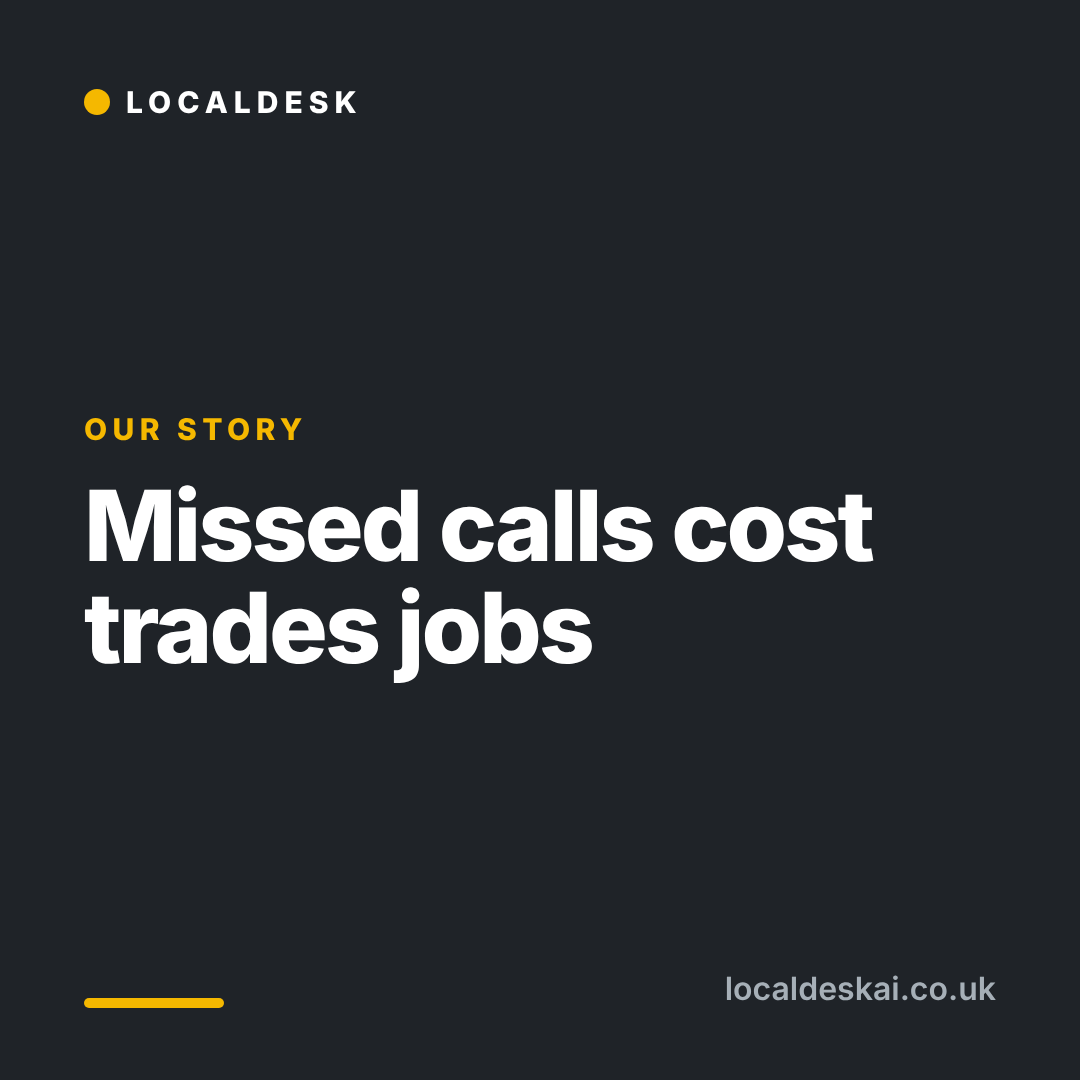
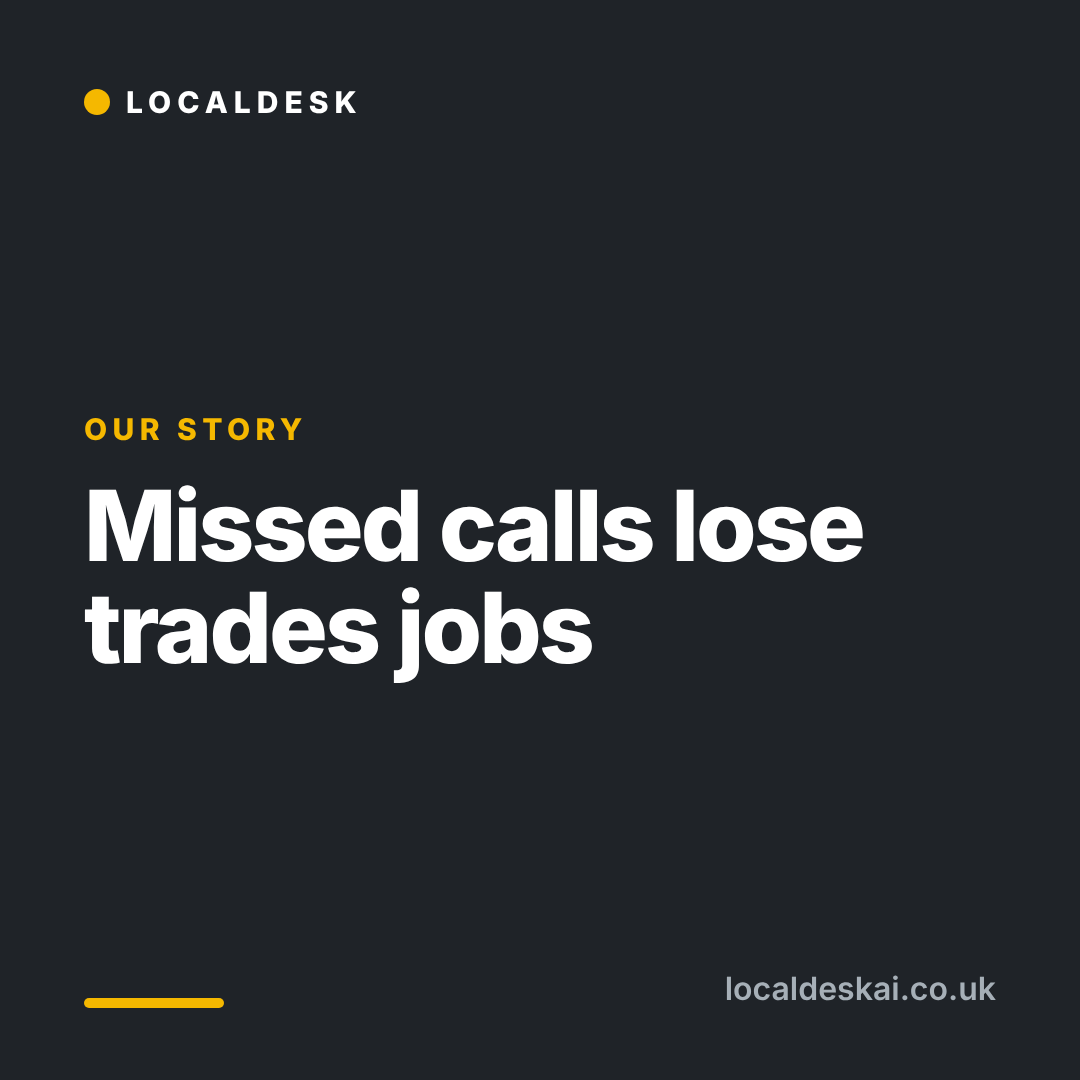
No prices or costs in any social post (owner rule): all 30 days and the first pack reworded, HQ refuses to approve a post that mentions a cost, unapproved drafts follow the cleaned wording, tiles regenerated
Claude-Session: https://claude.ai/code/session_017pEuQxjLj9JBWjxaEQGar8

Changed region(s): [[0.6111, 0.4583, 0.825, 0.5194]]

diff --git a/workers/hq/posts-seed-30.js b/workers/hq/posts-seed-30.js
@@ -50,7 +50,7 @@ export const SEED_MORE = [
   "day": 4,
   "dow": "Thu",
   "title": "She is an AI, and says so",
-  "text": "Mia is an AI, and she says so.\n\nShe takes details and passes them on. She doesn't quote prices, book your diary or promise times. You call back and win the work.\n\nWe'd rather be upfront than have a customer feel tricked.\nhttps://www.localdeskai.co.uk/receptionist/?utm_source=facebook",
+  "text": "Mia is an AI, and she says so.\n\nShe takes details and passes them on. She doesn't give quotes, book your diary or promise times. You call back and win the work.\n\nWe'd rather be upfront than have a customer feel tricked.\nhttps://www.localdeskai.co.uk/receptionist/?utm_source=facebook",
   "picture": "Text tile.",
   "note": "Channels: Facebook, Instagram, LinkedIn. Links: swap utm_source for each channel (facebook, instagram, linkedin, gbp). On Instagram use \"link in bio\". Video idea: 15 seconds. Screen recording of the Receptionist page sample call. On-screen text: 'She tells callers she's an AI.' / 'She takes details.' / 'You call back.' End card: localdeskai.co.uk. Image: content/social/tiles/day-04.png",
   "founding": false,
@@ -65,9 +65,9 @@ export const SEED_MORE = [
   "day": 5,
   "dow": "Fri",
   "title": "Founding places",
-  "text": "We're opening a small number of founding places for Mia, our AI receptionist. Founding clients get free setup (normally £497) and a 7-day free trial, while places last.\n\nMessage us or see the details: https://www.localdeskai.co.uk/receptionist/?utm_source=facebook",
+  "text": "We're opening a small number of founding places for Mia, our AI receptionist. Founding clients get a hands-on start and a 7-day free trial, while places last.\n\nMessage us to find out more: https://www.localdeskai.co.uk/receptionist/?utm_source=facebook",
   "picture": "Text tile. Do NOT use a countdown or a number of places left in the image.",
-  "note": "Channels: Facebook, Instagram, LinkedIn. Links: swap utm_source for each channel (facebook, instagram, linkedin, gbp). On Instagram use \"link in bio\". Google Business Profile version: Founding places for Mia, our AI receptionist: free setup (normally £497) and a 7-day free trial, while places last. Image: content/social/tiles/day-05.png",
+  "note": "Channels: Facebook, Instagram, LinkedIn. Links: swap utm_source for each channel (facebook, instagram, linkedin, gbp). On Instagram use \"link in bio\". Google Business Profile version: Founding places for Mia, our AI receptionist: a hands-on start and a 7-day free trial, while places last. Message us to find out more. Image: content/social/tiles/day-05.png",
   "founding": true,
   "demo": false,
   "platform": "all",
@@ -125,7 +125,7 @@ export const SEED_MORE = [
   "day": 9,
   "dow": "Tue",
   "title": "Receipts in your pocket",
-  "text": "Receipts in your pocket. Photograph a receipt on your phone and Books files it into your own accounting software. We work with QuickBooks, and we're adding FreeAgent and Xero.\n\nBooks by Localdesk: £150 a month plus a £395 setup.\nhttps://www.localdeskai.co.uk/books/?utm_source=facebook",
+  "text": "Receipts in your pocket. Photograph a receipt on your phone and Books files it into your own accounting software. We work with QuickBooks, and we're adding FreeAgent and Xero.\n\nBooks by Localdesk.\nhttps://www.localdeskai.co.uk/books/?utm_source=facebook",
   "picture": "Screenshot from the Books page.",
   "note": "Channels: Facebook, Instagram, LinkedIn. Links: swap utm_source for each channel (facebook, instagram, linkedin, gbp). On Instagram use \"link in bio\". Image: content/social/tiles/day-09.png",
   "founding": false,
@@ -154,11 +154,11 @@ export const SEED_MORE = [
   "id": "m11",
   "day": 11,
   "dow": "Thu",
-  "title": "What it costs",
-  "text": "What does Mia cost? £397 a month, with 300 minutes of calls included. 7-day free trial first. Setup is normally £497 and free for founding clients while places last.\n\nThere's a 3-month minimum term after the free trial, and the full terms are on our website.\nhttps://www.localdeskai.co.uk/receptionist/?utm_source=facebook",
-  "picture": "The pricing card from the Receptionist page (screenshot).",
-  "note": "Channels: Facebook, Instagram, LinkedIn. Links: swap utm_source for each channel (facebook, instagram, linkedin, gbp). On Instagram use \"link in bio\". Google Business Profile version: Mia: £397 a month, 300 minutes included, 7-day free trial. Setup normally £497, free for founding clients while places last. 3-month minimum term after the trial. Image: content/social/tiles/day-11.png",
-  "founding": true,
+  "title": "Set up around your business",
+  "text": "Mia isn't one-size-fits-all. We set her up around your business: the jobs you do, the areas you cover, and what you'd want asked of every caller.\n\nTell us about your trade and we'll show you how she'd sound.\nhttps://www.localdeskai.co.uk/receptionist/?utm_source=facebook",
+  "picture": "Text tile.",
+  "note": "Channels: Facebook, Instagram, LinkedIn. Links: swap utm_source for each channel (facebook, instagram, linkedin, gbp). On Instagram use \"link in bio\". Google Business Profile version: Mia is set up around your business: the jobs you do, the areas you cover, and what you'd want asked of every caller. Message us to hear how she'd sound. Image: content/social/tiles/day-11.png",
+  "founding": false,
   "demo": false,
   "platform": "all",
   "planned": "2026-11-12",
@@ -260,9 +260,9 @@ export const SEED_MORE = [
   "day": 18,
   "dow": "Thu",
   "title": "Five questions to ask first",
-  "text": "Five questions to ask any answering service before you sign:\n1. Does it say it's an AI or a person?\n2. Do I keep my own number?\n3. What happens when I go over my minutes?\n4. Can I read what was said on a call?\n5. What's the minimum term?\n\nWe're happy to answer all five for Mia.\nhttps://www.localdeskai.co.uk/receptionist/?utm_source=facebook",
+  "text": "Five questions to ask any answering service before you sign:\n1. Does it say it's an AI or a person?\n2. Do I keep my own number?\n3. Is it set up around my business?\n4. Can I read what was said on a call?\n5. Can I try it first?\n\nWe're happy to answer all five for Mia.\nhttps://www.localdeskai.co.uk/receptionist/?utm_source=facebook",
   "picture": "Numbered list tile.",
-  "note": "Channels: Facebook, Instagram, LinkedIn. Links: swap utm_source for each channel (facebook, instagram, linkedin, gbp). On Instagram use \"link in bio\". Google Business Profile version: Five questions to ask any answering service before you sign: is it an AI or a person, do you keep your number, what happens over your minutes, can you read the call, what's the minimum term? Image: content/social/tiles/day-18.png",
+  "note": "Channels: Facebook, Instagram, LinkedIn. Links: swap utm_source for each channel (facebook, instagram, linkedin, gbp). On Instagram use \"link in bio\". Google Business Profile version: Five questions to ask any answering service before you sign: is it an AI or a person, do you keep your number, is it set up around your business, can you read the call, can you try it first? Image: content/social/tiles/day-18.png",
   "founding": false,
   "demo": false,
   "platform": "all",
@@ -275,7 +275,7 @@ export const SEED_MORE = [
   "day": 19,
   "dow": "Fri",
   "title": "Founding places still open",
-  "text": "Founding places for Mia are still open: free setup (normally £497) and a 7-day free trial, while places last.\nhttps://www.localdeskai.co.uk/receptionist/?utm_source=facebook",
+  "text": "Founding places for Mia are still open: a hands-on start and a 7-day free trial, while places last.\nhttps://www.localdeskai.co.uk/receptionist/?utm_source=facebook",
   "picture": "Text tile. Post only while founding places remain: HQ will not let you approve this once all five are taken.",
   "note": "Channels: Facebook, Instagram, LinkedIn. Links: swap utm_source for each channel (facebook, instagram, linkedin, gbp). On Instagram use \"link in bio\". Image: content/social/tiles/day-19.png",
   "founding": true,
@@ -335,7 +335,7 @@ export const SEED_MORE = [
   "day": 23,
   "dow": "Tue",
   "title": "Sole traders and paperwork",
-  "text": "Sole trader? Books keeps receipts and invoices in your own accounting software, so the paperwork doesn't pile up. £150 a month plus £395 setup.\nhttps://www.localdeskai.co.uk/books/?utm_source=facebook",
+  "text": "Sole trader? Books keeps receipts and invoices in your own accounting software, so the paperwork doesn't pile up.\nhttps://www.localdeskai.co.uk/books/?utm_source=facebook",
   "picture": "Screenshot from the Books page.",
   "note": "Channels: Facebook, Instagram, LinkedIn. Links: swap utm_source for each channel (facebook, instagram, linkedin, gbp). On Instagram use \"link in bio\". Image: content/social/tiles/day-23.png",
   "founding": false,
@@ -440,9 +440,9 @@ export const SEED_MORE = [
   "day": 30,
   "dow": "Tue",
   "title": "Book a demo",
-  "text": "Missed calls cost jobs. Mia can answer when you can't and text you the details. 7-day free trial, £397 a month after. Book a 15 minute demo: https://www.localdeskai.co.uk/receptionist/?utm_source=facebook",
+  "text": "Missed calls lose jobs. Mia can answer when you can't and text you the details. Try it free for 7 days. Book a 15 minute demo: https://www.localdeskai.co.uk/receptionist/?utm_source=facebook",
   "picture": "Text tile with the Localdesk wordmark.",
-  "note": "Channels: Facebook, Instagram, LinkedIn. Links: swap utm_source for each channel (facebook, instagram, linkedin, gbp). On Instagram use \"link in bio\". Google Business Profile version: Missed calls cost jobs. Mia can answer when you can't and text you the details. 7-day free trial, then £397 a month. Message us to book a 15 minute demo. Image: content/social/tiles/day-30.png",
+  "note": "Channels: Facebook, Instagram, LinkedIn. Links: swap utm_source for each channel (facebook, instagram, linkedin, gbp). On Instagram use \"link in bio\". Google Business Profile version: Missed calls lose jobs. Mia can answer when you can't and text you the details. Try it free for 7 days. Message us to book a 15 minute demo. Image: content/social/tiles/day-30.png",
   "founding": false,
   "demo": false,
   "platform": "all",

diff --git a/workers/hq/posts.js b/workers/hq/posts.js
@@ -4,6 +4,9 @@ import { esc, shell, banner, btn, pill } from './ui.js';
 import { SEED_POSTS } from './posts-seed.js';
 import { SEED_MORE } from './posts-seed-30.js';
 
+// The owner rule: no social post may talk about prices or costs. A post that does can still be written and edited, but never approved, scheduled or marked posted.
+export const COST_RE = /£\s?\d|\bpric(e|es|ing)\b|\bcosts?\b|\bfees?\b|per month|\ba month\b|\bsetup\b|minimum term|\bdiscount|\bcheap/i;
+export const mentionsCost = (t) => COST_RE.test(String(t || ''));
 export const FOUNDING_PLACES = 5;
 export const STATUSES = ['draft', 'approved', 'scheduled', 'posted', 'rejected'];
 const LABEL = { draft: 'Draft', approved: 'Approved', scheduled: 'Scheduled', posted: 'Posted', rejected: 'Rejected' };
@@ -41,12 +44,19 @@ export function plan(posts, id, { platform, planned }, now = Date.now()) {
 export const dueToday = (posts, now = Date.now()) => (posts || []).filter(p => p.planned && p.planned <= today(now) && ['approved', 'scheduled'].includes(p.status));
 // The 30-day calendar (content/social-30-day.json). Added to the queue once, as drafts, when HQ next opens Content; posts already there are never touched.
 export const missingSeeds = (posts) => { const have = new Set((posts || []).map(p => p.id)); return SEED_MORE.filter(p => !have.has(p.id)).map(p => ({ ...p })); };
+// Drafts nobody has approved yet follow the latest wording from the repo (for example when a post was reworded). Approved, scheduled, posted and your own posts are never touched.
+export function refreshDrafts(posts) {
+  const latest = new Map([...SEED_POSTS, ...SEED_MORE].map(x => [x.id, x])); let changed = false;
+  for (const p of posts || []) { const n = latest.get(p.id); if (n && !p.custom && p.status === 'draft' && (p.text !== n.text || p.title !== n.title)) { Object.assign(p, { text: n.text, title: n.title, picture: n.picture, note: n.note, founding: n.founding, demo: n.demo }); changed = true; } }
+  return changed;
+}
 export const seedPosts = () => SEED_POSTS.map(p => ({ ...p, status: 'draft', updated: 0 }));
 
 // Why a post may not move to this status right now, or '' if it may.
 // A post that talks about the founding offer cannot be approved, scheduled or posted once all 5 places are taken.
 export function blocked(post, to, foundingUsed) {
   if (!MOVES[post.status] || !MOVES[post.status].includes(to)) return `A ${LABEL[post.status] || post.status} post cannot become ${LABEL[to] || to}`;
+  if (mentionsCost(post.text) && ['approved', 'scheduled', 'posted'].includes(to)) return 'This post mentions a price or a cost, and no social post is to. Edit the wording first.';
   if (post.founding && ['approved', 'scheduled', 'posted'].includes(to)) {
     if (foundingUsed === null || foundingUsed === undefined) return 'I cannot check how many founding places are left right now, so this post stays a draft. Try again in a minute.';
     if (foundingUsed >= FOUNDING_PLACES) return `All ${FOUNDING_PLACES} founding places are taken, so a post offering free setup would be wrong. Edit the post to remove the offer, or reject it.`;
@@ -76,7 +86,7 @@ export function edit(posts, id, text, now = Date.now()) {
 
 const card = (p, left) => `<div class="card" id="${esc(p.id)}"><div style="display:flex;justify-content:space-between;gap:10px;align-items:flex-start"><div><small class="mute">${p.custom ? 'Your post' : `Day ${p.day} · ${esc(p.dow)}`}${p.planned ? ` · planned ${esc(p.planned)}` : ''}${p.platform ? ` · ${esc(PLATFORMS[p.platform] || '')}` : ''}</small><h2 style="margin:2px 0 8px">${esc(p.title)}</h2></div>${pill(KIND[p.status], LABEL[p.status])}</div>
 ${p.founding ? `<p class="help"><b>Mentions the founding offer.</b> ${left === null ? 'Founding places could not be checked.' : left > 0 ? `${left} of ${FOUNDING_PLACES} places left. It cannot be approved once they are gone.` : 'No places left, so it cannot be approved.'}</p>` : ''}
-${p.demo ? '<p class="help"><b>Mentions the live demo.</b> Only post it while the demo is on the website.</p>' : ''}
+${mentionsCost(p.text) ? '<p class="help"><b>Mentions a price or cost.</b> No social post is to, so this cannot be approved until you edit it.</p>' : ''}${p.demo ? '<p class="help"><b>Mentions the live demo.</b> Only post it while the demo is on the website.</p>' : ''}
 <form method="post" action="/content/${esc(p.id)}/save"><textarea name="text" rows="7" style="width:100%" ${p.status === 'posted' ? 'readonly' : ''}>${esc(p.text)}</textarea>${p.status === 'posted' ? '' : '<button class="btn line" style="margin-top:8px">Save changes (needs approving again)</button>'}</form>
 ${p.status === 'posted' ? '' : `<form method="post" action="/content/${esc(p.id)}/plan" class="stack"><label for="pf-${esc(p.id)}">Where and when</label><select id="pf-${esc(p.id)}" name="platform">${Object.entries(PLATFORMS).map(([k, v]) => `<option value="${k}"${(p.platform || 'both') === k ? ' selected' : ''}>${v}</option>`).join('')}</select><input name="planned" type="date" value="${esc(p.planned || '')}" aria-label="Planned day"><button class="btn line">Save plan</button></form>`}${p.picture ? `<p class="mute"><b>Picture:</b> ${esc(p.picture)}</p>` : ''}${p.note ? `<p class="mute"><b>Note:</b> ${esc(p.note)}</p>` : ''}
 <div class="qa" style="display:flex;flex-wrap:wrap;gap:8px;margin-top:10px">${(MOVES[p.status] || []).map(to => `<form method="post" action="/content/${esc(p.id)}/${to}"><button class="btn ${to === 'approved' ? '' : 'line'}">${{ approved: 'Approve', rejected: 'Reject', draft: 'Back to draft', scheduled: 'I scheduled it', posted: 'It is posted' }[to]}</button></form>`).join('')}</div></div>`;

diff --git a/workers/hq/worker.js b/workers/hq/worker.js
@@ -12,7 +12,7 @@
 import { LINKS, REGISTER, DOCS } from './content.js';
 import { FONT_B64 } from './font.js';
 import { esc, shell, bare, pill, banner, btn, tile, bigLink, item, crumb, todo, ICON } from './ui.js';
-import { pageContent, seedPosts, move as movePost, edit as editPost, add as addPost, plan as planPost, dueToday, missingSeeds, STATUSES } from './posts.js';
+import { pageContent, seedPosts, move as movePost, edit as editPost, add as addPost, plan as planPost, dueToday, missingSeeds, refreshDrafts, STATUSES } from './posts.js';
 import { b64u, newChallenge, verifyRegistration, verifyAssertion, loginScript } from './passkey.js';
 import { evaluate as stripeEval, EXPECTED as STRIPE_EXPECTED } from './stripecheck.js';
 import { setupDue, zoomsSoon, appFor, pageLeads, pageLead, newLeadForm, progress, progressCard, isDue, CHECKLISTS, priceConfig, subscriptionFacts } from './leads.js';
@@ -284,7 +284,7 @@ const putLead = (env, id, patch) => books(env, `/leads/${encodeURIComponent(id)}
 const LEAD_FLASH = { exists: ['info', 'That number was already in HQ, so this is the lead you already had. Nothing was changed.'], saved: ['ok', 'Saved.'], added: ['ok', 'Lead added. Nothing was sent to them.'], deleted: ['ok', 'Deleted.'] };
 const leadFlash = (url) => { const f = LEAD_FLASH[url.searchParams.get('done')]; return f ? banner(f[0], f[1]) : ''; };
 const leadsDown = () => shell('Leads', `<h1>Leads</h1>${booksError()}`, '/leads');
-const loadPosts = async (vault) => { let p = await vpost(vault, '/posts', {}); let changed = false; if (!Array.isArray(p)) { p = seedPosts(); changed = true; } const more = missingSeeds(p); if (more.length) { p = [...p, ...more]; changed = true; } if (changed) await vpost(vault, '/posts', { op: 'save', posts: p }); return p; };
+const loadPosts = async (vault) => { let p = await vpost(vault, '/posts', {}); let changed = false; if (!Array.isArray(p)) { p = seedPosts(); changed = true; } const more = missingSeeds(p); if (more.length) { p = [...p, ...more]; changed = true; } if (refreshDrafts(p)) changed = true; if (changed) await vpost(vault, '/posts', { op: 'save', posts: p }); return p; };
 async function contentAction(request, env, vault, id, action) {
   const posts = await loadPosts(vault); let r;
   const form = async () => Object.fromEntries([...(await request.formData().catch(() => new FormData())).entries()].map(([k, x]) => [k, String(x)]));

diff --git a/workers/hq/posts-seed.js b/workers/hq/posts-seed.js
@@ -49,7 +49,7 @@ export const SEED_POSTS = [
   "day": 5,
   "dow": "Fri",
   "title": "Founding offer",
-  "text": "We're opening a small number of founding places for Mia, our AI receptionist. Founding clients get free setup (normally £497) and a 7-day free trial, while places last.\nMessage us or see: https://localdeskai.co.uk/receptionist/",
+  "text": "We're opening a small number of founding places for Mia, our AI receptionist. Founding clients get a hands-on start and a 7-day free trial, while places last.\nMessage us or see: https://localdeskai.co.uk/receptionist/",
   "picture": "text graphic \"5 founding places\".",
   "note": "HQ blocks approving this post once all founding places are used. Never post it after that.",
   "founding": true,
@@ -93,7 +93,7 @@ export const SEED_POSTS = [
   "day": 9,
   "dow": "Tue",
   "title": "Books: receipts in your pocket",
-  "text": "Photograph a receipt on your phone and Books files it into your own accounting software. We work with QuickBooks, and we're adding FreeAgent and Xero. You also get a monthly text summary.\nBooks by Localdesk: £150 a month plus a £395 setup. https://localdeskai.co.uk/books/",
+  "text": "Photograph a receipt on your phone and Books files it into your own accounting software. We work with QuickBooks, and we're adding FreeAgent and Xero. You also get a monthly text summary.\nBooks by Localdesk: https://localdeskai.co.uk/books/",
   "picture": "screenshot from the Books page.",
   "note": "",
   "founding": false,
@@ -103,11 +103,11 @@ export const SEED_POSTS = [
   "id": "p10",
   "day": 10,
   "dow": "Wed",
-  "title": "Plumbers: what it costs",
-  "text": "Mia is £397 a month, with 300 minutes of calls included. 7-day free trial first, and founding clients get free setup while places last.\nFull details: https://localdeskai.co.uk/receptionist/",
-  "picture": "the pricing card.",
+  "title": "Plumbers: set up around your business",
+  "text": "Mia isn't one-size-fits-all. We set her up around your business: the jobs you do, the areas you cover, and what you'd want asked of every caller.\nTell us about your trade and we'll show you how she'd sound: https://localdeskai.co.uk/receptionist/",
+  "picture": "text graphic \"Set up around your business\".",
   "note": "",
-  "founding": true,
+  "founding": false,
   "demo": false
  },
  {

diff --git a/content/social-30-day.md b/content/social-30-day.md
@@ -4,8 +4,8 @@ DRAFTS for the owner to approve. Generated from `content/social-30-day.json` by 
 
 ## Rules every post follows
 - Only claims already on the website. No "every call", no "never", no results, savings or customer quotes (there are none yet), no stock photos of fake customers.
-- Founding-offer posts (Days 5, 11, 19) are blocked in HQ once all five founding places are taken, and must not be posted after that.
-- The offer wording is always "while places last". The setup fee is normally 497 pounds; Mia is 397 pounds a month with a 7-day free trial; Books is 150 pounds a month plus 395 pounds setup.
+- Founding-offer posts (Days 5 and 19) are blocked in HQ once all five founding places are taken, and must not be posted after that. The offer wording is always "while places last".
+- **No prices or costs in any post** (owner rule): no pound amounts, no setup fee, no "free setup", no minimum term. Saying there is a 7-day free trial is fine. HQ will not let a post that mentions cost be approved.
 - One call to action per post: book a 15 to 20 minute Zoom, or see the page. Replies and comments are answered by the owner. **Do not message people who have not messaged you first** (the cold-call rules in `docs/COLD-CALLING-COMPLIANCE.md` apply to anything that starts a conversation).
 
 ## How to adapt each caption
@@ -31,7 +31,7 @@ Every link ends `?utm_source=<channel>`. When someone fills in the website form 
 | 8 | Mon 09/11 | Storm weekend | Facebook, Instagram, LinkedIn | problem |
 | 9 | Tue 10/11 | Receipts in your pocket | Facebook, Instagram, LinkedIn | books |
 | 10 | Wed 11/11 | Burst pipe at 9pm | Facebook, Instagram, LinkedIn | problem |
-| 11 | Thu 12/11 | What it costs | Facebook, Instagram, LinkedIn | price |
+| 11 | Thu 12/11 | Set up around your business | Facebook, Instagram, LinkedIn | how |
 | 12 | Fri 13/11 | Hear Mia on a Zoom | Facebook, Instagram, LinkedIn | demo |
 | 13 | Sat 14/11 | Tip: receipt photos | Facebook, Instagram, LinkedIn | value |
 | 14 | Sun 15/11 | Talk to Mia on our website | Facebook, Instagram, LinkedIn | demo |
@@ -73,7 +73,7 @@ Every link ends `?utm_source=<channel>`. When someone fills in the website form 
 - Instagram: put "Link in bio" in the caption; the bio link is https://www.localdeskai.co.uk/receptionist/?utm_source=instagram
 - LinkedIn: https://www.localdeskai.co.uk/receptionist/?utm_source=linkedin
 
-**Image:** `content/social/tiles/day-01.png` (text: "Missed calls cost trades jobs"). **Brief:** Owner photo on site in hi-vis if he is happy to, otherwise this text tile. No stock photos of customers.
+**Image:** `content/social/tiles/day-01.png` (text: "Missed calls lose trades jobs"). **Brief:** Owner photo on site in hi-vis if he is happy to, otherwise this text tile. No stock photos of customers.
 
 ---
 
@@ -131,7 +131,7 @@ Every link ends `?utm_source=<channel>`. When someone fills in the website form 
 
 > Mia is an AI, and she says so.
 > 
-> She takes details and passes them on. She doesn't quote prices, book your diary or promise times. You call back and win the work.
+> She takes details and passes them on. She doesn't give quotes, book your diary or promise times. You call back and win the work.
 > 
 > We'd rather be upfront than have a customer feel tricked.
 > {LINK}
@@ -152,9 +152,9 @@ Every link ends `?utm_source=<channel>`. When someone fills in the website form 
 
 **Caption (Facebook, LinkedIn, Instagram; change the link line as below):**
 
-> We're opening a small number of founding places for Mia, our AI receptionist. Founding clients get free setup (normally £497) and a 7-day free trial, while places last.
+> We're opening a small number of founding places for Mia, our AI receptionist. Founding clients get a hands-on start and a 7-day free trial, while places last.
 > 
-> Message us or see the details: {LINK}
+> Message us to find out more: {LINK}
 
 **Links to use:**
 - Facebook: https://www.localdeskai.co.uk/receptionist/?utm_source=facebook
@@ -163,7 +163,7 @@ Every link ends `?utm_source=<channel>`. When someone fills in the website form 
 
 **Image:** `content/social/tiles/day-05.png` (text: "Founding places, while they last"). **Brief:** Text tile. Do NOT use a countdown or a number of places left in the image.
 
-**Google Business Profile version (under 300 characters):** Founding places for Mia, our AI receptionist: free setup (normally £497) and a 7-day free trial, while places last.
+**Google Business Profile version (under 300 characters):** Founding places for Mia, our AI receptionist: a hands-on start and a 7-day free trial, while places last. Message us to find out more.
 
 ---
 
@@ -231,7 +231,7 @@ Every link ends `?utm_source=<channel>`. When someone fills in the website form 
 
 > Receipts in your pocket. Photograph a receipt on your phone and Books files it into your own accounting software. We work with QuickBooks, and we're adding FreeAgent and Xero.
 > 
-> Books by Localdesk: £150 a month plus a £395 setup.
+> Books by Localdesk.
 > {LINK}
 
 **Links to use:**
@@ -262,14 +262,14 @@ Every link ends `?utm_source=<channel>`. When someone fills in the website form 
 
 ---
 
-### Day 11: What it costs (Thu 2026-11-12)
+### Day 11: Set up around your business (Thu 2026-11-12)
 **Channels:** Facebook, Instagram, LinkedIn
 
 **Caption (Facebook, LinkedIn, Instagram; change the link line as below):**
 
-> What does Mia cost? £397 a month, with 300 minutes of calls included. 7-day free trial first. Setup is normally £497 and free for founding clients while places last.
+> Mia isn't one-size-fits-all. We set her up around your business: the jobs you do, the areas you cover, and what you'd want asked of every caller.
 > 
-> There's a 3-month minimum term after the free trial, and the full terms are on our website.
+> Tell us about your trade and we'll show you how she'd sound.
 > {LINK}
 
 **Links to use:**
@@ -277,9 +277,9 @@ Every link ends `?utm_source=<channel>`. When someone fills in the website form 
 - Instagram: put "Link in bio" in the caption; the bio link is https://www.localdeskai.co.uk/receptionist/?utm_source=instagram
 - LinkedIn: https://www.localdeskai.co.uk/receptionist/?utm_source=linkedin
 
-**Image:** `content/social/tiles/day-11.png` (text: "£397 a month. 7-day free trial."). **Brief:** The pricing card from the Receptionist page (screenshot).
+**Image:** `content/social/tiles/day-11.png` (text: "Set up around your business"). **Brief:** Text tile.
 
-**Google Business Profile version (under 300 characters):** Mia: £397 a month, 300 minutes included, 7-day free trial. Setup normally £497, free for founding clients while places last. 3-month minimum term after the trial.
+**Google Business Profile version (under 300 characters):** Mia is set up around your business: the jobs you do, the areas you cover, and what you'd want asked of every caller. Message us to hear how she'd sound.
 
 ---
 
@@ -403,9 +403,9 @@ Every link ends `?utm_source=<channel>`. When someone fills in the website form 
 > Five questions to ask any answering service before you sign:
 > 1. Does it say it's an AI or a person?
 > 2. Do I keep my own number?
-> 3. What happens when I go over my minutes?
+> 3. Is it set up around my business?
 > 4. Can I read what was said on a call?
-> 5. What's the minimum term?
+> 5. Can I try it first?
 > 
 > We're happy to answer all five for Mia.
 > {LINK}
@@ -417,7 +417,7 @@ Every link ends `?utm_source=<channel>`. When someone fills in the website form 
 
 **Image:** `content/social/tiles/day-18.png` (text: "5 questions to ask first"). **Brief:** Numbered list tile.
 
-**Google Business Profile version (under 300 characters):** Five questions to ask any answering service before you sign: is it an AI or a person, do you keep your number, what happens over your minutes, can you read the call, what's the minimum term?
+**Google Business Profile version (under 300 characters):** Five questions to ask any answering service before you sign: is it an AI or a person, do you keep your number, is it set up around your business, can you read the call, can you try it first?
 
 ---
 
@@ -426,7 +426,7 @@ Every link ends `?utm_source=<channel>`. When someone fills in the website form 
 
 **Caption (Facebook, LinkedIn, Instagram; change the link line as below):**
 
-> Founding places for Mia are still open: free setup (normally £497) and a 7-day free trial, while places last.
+> Founding places for Mia are still open: a hands-on start and a 7-day free trial, while places last.
 > {LINK}
 
 **Links to use:**
@@ -498,7 +498,7 @@ Every link ends `?utm_source=<channel>`. When someone fills in the website form 
 
 **Caption (Facebook, LinkedIn, Instagram; change the link line as below):**
 
-> Sole trader? Books keeps receipts and invoices in your own accounting software, so the paperwork doesn't pile up. £150 a month plus £395 setup.
+> Sole trader? Books keeps receipts and invoices in your own accounting software, so the paperwork doesn't pile up.
 > {LINK}
 
 **Links to use:**
@@ -626,7 +626,7 @@ Every link ends `?utm_source=<channel>`. When someone fills in the website form 
 
 **Caption (Facebook, LinkedIn, Instagram; change the link line as below):**
 
-> Missed calls cost jobs. Mia can answer when you can't and text you the details. 7-day free trial, £397 a month after. Book a 15 minute demo: {LINK}
+> Missed calls lose jobs. Mia can answer when you can't and text you the details. Try it free for 7 days. Book a 15 minute demo: {LINK}
 
 **Links to use:**
 - Facebook: https://www.localdeskai.co.uk/receptionist/?utm_source=facebook
@@ -635,4 +635,4 @@ Every link ends `?utm_source=<channel>`. When someone fills in the website form 
 
 **Image:** `content/social/tiles/day-30.png` (text: "Book a 15-minute demo"). **Brief:** Text tile with the Localdesk wordmark.
 
-**Google Business Profile version (under 300 characters):** Missed calls cost jobs. Mia can answer when you can't and text you the details. 7-day free trial, then £397 a month. Message us to book a 15 minute demo.
+**Google Business Profile version (under 300 characters):** Missed calls lose jobs. Mia can answer when you can't and text you the details. Try it free for 7 days. Message us to book a 15 minute demo.

diff --git a/content/content-pack-1.md b/content/content-pack-1.md
@@ -5,7 +5,7 @@ DRAFT for the owner to approve. Public repo: marketing copy only, no secrets. No
 **Aimed at:** roofers, plumbers, electricians and other trades.
 **Link to use:** https://localdeskai.co.uk/receptionist/ (Receptionist) and https://localdeskai.co.uk/books/ (Books).
 **Phone number:** left out of every post by default. Add 01752 741686 yourself where you see [optional number].
-**Rules kept:** no made-up customers, testimonials or statistics, and no absolute claims such as "every call" or "never missed". Prices: Receptionist £397 a month, £497 setup waived for the first 5 founding clients only; Books £150 a month plus £395 setup. See the checklist of claims to verify at the bottom.
+**Rules kept:** no made-up customers, testimonials or statistics, no absolute claims such as "every call" or "never missed", and **no prices or costs in any post** (owner rule). See the checklist of claims to verify at the bottom.
 **Suggested times:** 7:30am or 12:30pm on weekdays (trades check phones at breakfast and lunch). Weekend posts about 9am.
 **Pictures:** use your own website screenshots, a plain text graphic, or your own photo. Do not use invented customer photos.
 
@@ -40,7 +40,7 @@ https://localdeskai.co.uk/receptionist/
 *Picture:* the three-step section from the website.
 
 **Day 5 (Fri) Founding offer**
-We're opening a small number of founding places for Mia, our AI receptionist. Founding clients get free setup (normally £497) and a 7-day free trial, while places last.
+We're opening a small number of founding places for Mia, our AI receptionist. Founding clients get a hands-on start and a 7-day free trial, while places last.
 Message us or see: https://localdeskai.co.uk/receptionist/
 *Picture:* text graphic "5 founding places".
 *Note:* HQ blocks approving this post once all founding places are used. Never post it after that.
@@ -66,13 +66,13 @@ https://localdeskai.co.uk/receptionist/
 
 **Day 9 (Tue) Books: receipts in your pocket**
 Photograph a receipt on your phone and Books files it into your own accounting software. We work with QuickBooks, and we're adding FreeAgent and Xero. You also get a monthly text summary.
-Books by Localdesk: £150 a month plus a £395 setup. https://localdeskai.co.uk/books/
+Books by Localdesk: https://localdeskai.co.uk/books/
 *Picture:* screenshot from the Books page.
 
-**Day 10 (Wed) Plumbers: what it costs**
-Mia is £397 a month, with 300 minutes of calls included. 7-day free trial first, and founding clients get free setup while places last.
-Full details: https://localdeskai.co.uk/receptionist/
-*Picture:* the pricing card.
+**Day 10 (Wed) Plumbers: set up around your business**
+Mia isn't one-size-fits-all. We set her up around your business: the jobs you do, the areas you cover, and what you'd want asked of every caller.
+Tell us about your trade and we'll show you how she'd sound: https://localdeskai.co.uk/receptionist/
+*Picture:* text graphic "Set up around your business".
 
 **Day 11 (Thu) Electricians: keep your number**
 You keep your number and your business cards. When you can't pick up, the call can go to Mia. When you can, you answer as normal.
@@ -100,9 +100,9 @@ https://localdeskai.co.uk/receptionist/
 ## Google Business Profile versions (short)
 Use the same ideas with one line and a "Learn more" button:
 - Day 1: "Missed calls while you're on the job? Mia, our AI receptionist, can answer and text you the details. Try free for 7 days."
-- Day 5: "Founding clients get free setup (normally £497) while places last."
+- Day 5: "Founding clients get a hands-on start and a 7-day free trial while places last."
 - Day 9: "Photograph a receipt and Books files it into your own accounting software."
-- Day 10: "Mia is £397 a month, 300 minutes included, 7-day free trial."
+- Day 10: "Mia is set up around your business: the jobs you do, the areas you cover and what you'd want asked of every caller."
 
 ## Claims to verify against the live product before any post goes out
 Each is true on the website, but I cannot check the live Vapi, Twilio or Stripe settings from here. Soften or remove anything that is not true.

diff --git a/docs/SOCIAL-PLAN.md b/docs/SOCIAL-PLAN.md
@@ -36,4 +36,4 @@
 - **The one authorisation that would make scheduling direct:** create a Metricool account, connect your Facebook, Instagram, LinkedIn and Google pages inside it, then connect Metricool to Claude in claude.ai Settings, Connectors. I would then draft each post into Metricool's schedule for you to approve there. I will not post or publish anything myself.
 
 ## Safety rules
-No invented testimonials, results or "customers"; only claims on the website; the founding offer always says "while places last"; no ads or spend; no posting without your approval; no cold messages; platform rules followed; and the cold-call rules in `docs/COLD-CALLING-COMPLIANCE.md` apply to anything that starts a conversation.
+**No prices or costs in any post** (owner rule): no pound amounts, fees, "free setup" or minimum terms. HQ enforces it: a post that mentions a cost cannot be approved, scheduled or marked posted, and unapproved drafts are cleaned up automatically. Saying there is a 7-day free trial is fine. No invented testimonials, results or "customers"; only claims on the website; the founding offer always says "while places last"; no ads or spend; no posting without your approval; no cold messages; platform rules followed; and the cold-call rules in `docs/COLD-CALLING-COMPLIANCE.md` apply to anything that starts a conversation.

diff --git a/docs/CONTENT-WORKFLOW.md b/docs/CONTENT-WORKFLOW.md
@@ -9,6 +9,7 @@ HQ, More, Content. **HQ never posts, schedules or contacts any social service.**
 | Edit a post | **Works**; any edit sends it back to draft; a posted post cannot be edited | HQ test |
 | Review and approve or reject | **Works**; sensible moves only (draft, approved, scheduled, posted, rejected) | HQ test |
 | Founding-offer guard | **Works**; a post that mentions the founding offer cannot be approved, scheduled or posted when all five places are used or the count cannot be checked; applies to your own posts and to edits | HQ tests, fail-closed case included |
+| No-cost rule | **Works**: a post that mentions a price, fee, setup or minimum term cannot be approved, scheduled or marked posted; a card says why | HQ tests |
 | Plan a platform and a day | **Works** | HQ test |
 | "I scheduled it" and "It is posted" | **Works as a tick box only**: it records that you did it, it does not do it | HQ test |
 | Home reminder "N posts to put out today" | **Works** for approved or scheduled posts whose planned day has come, until you tick them posted | HQ test |
